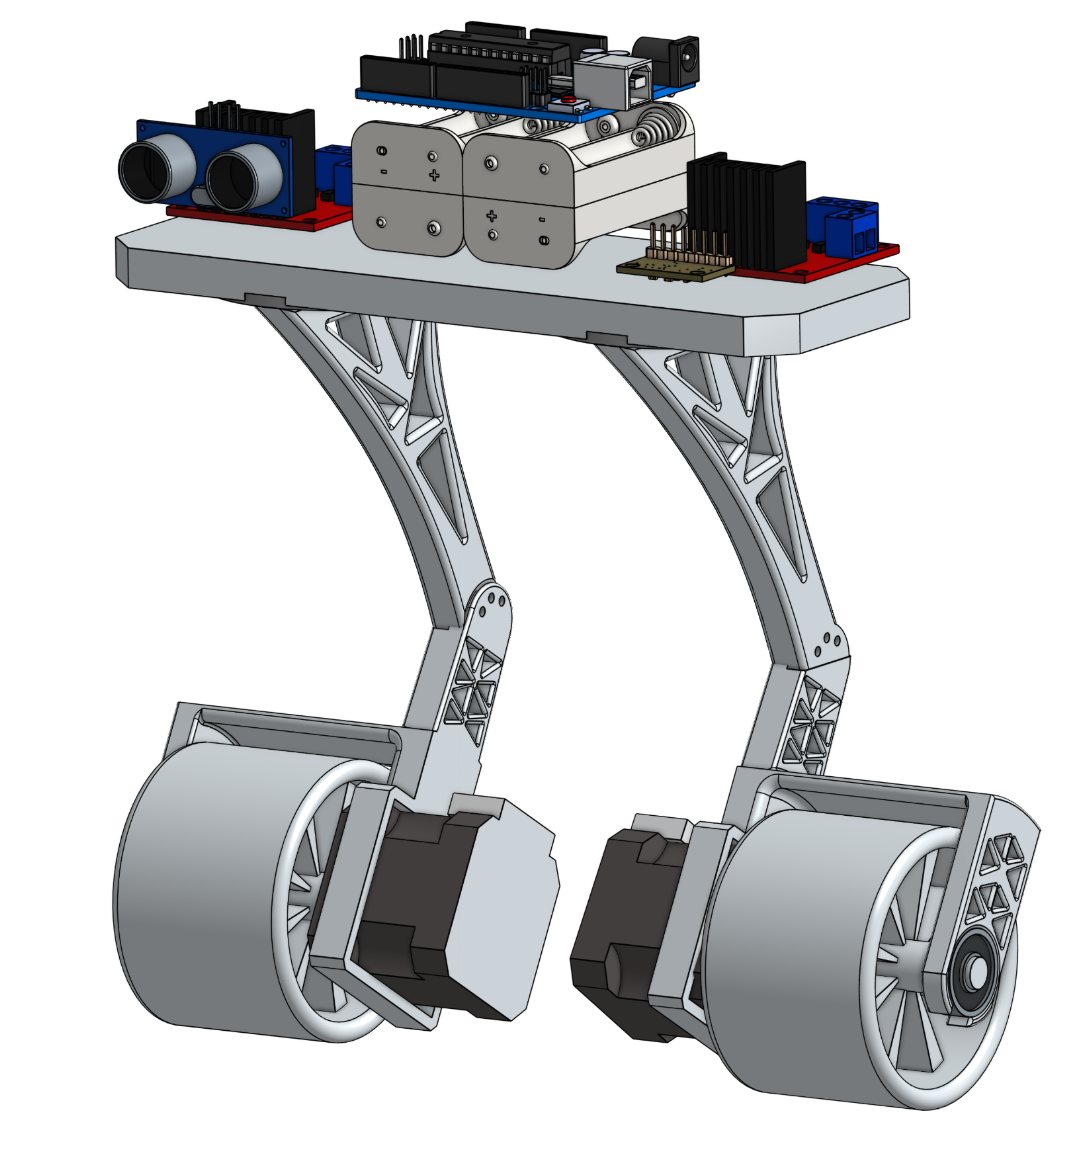
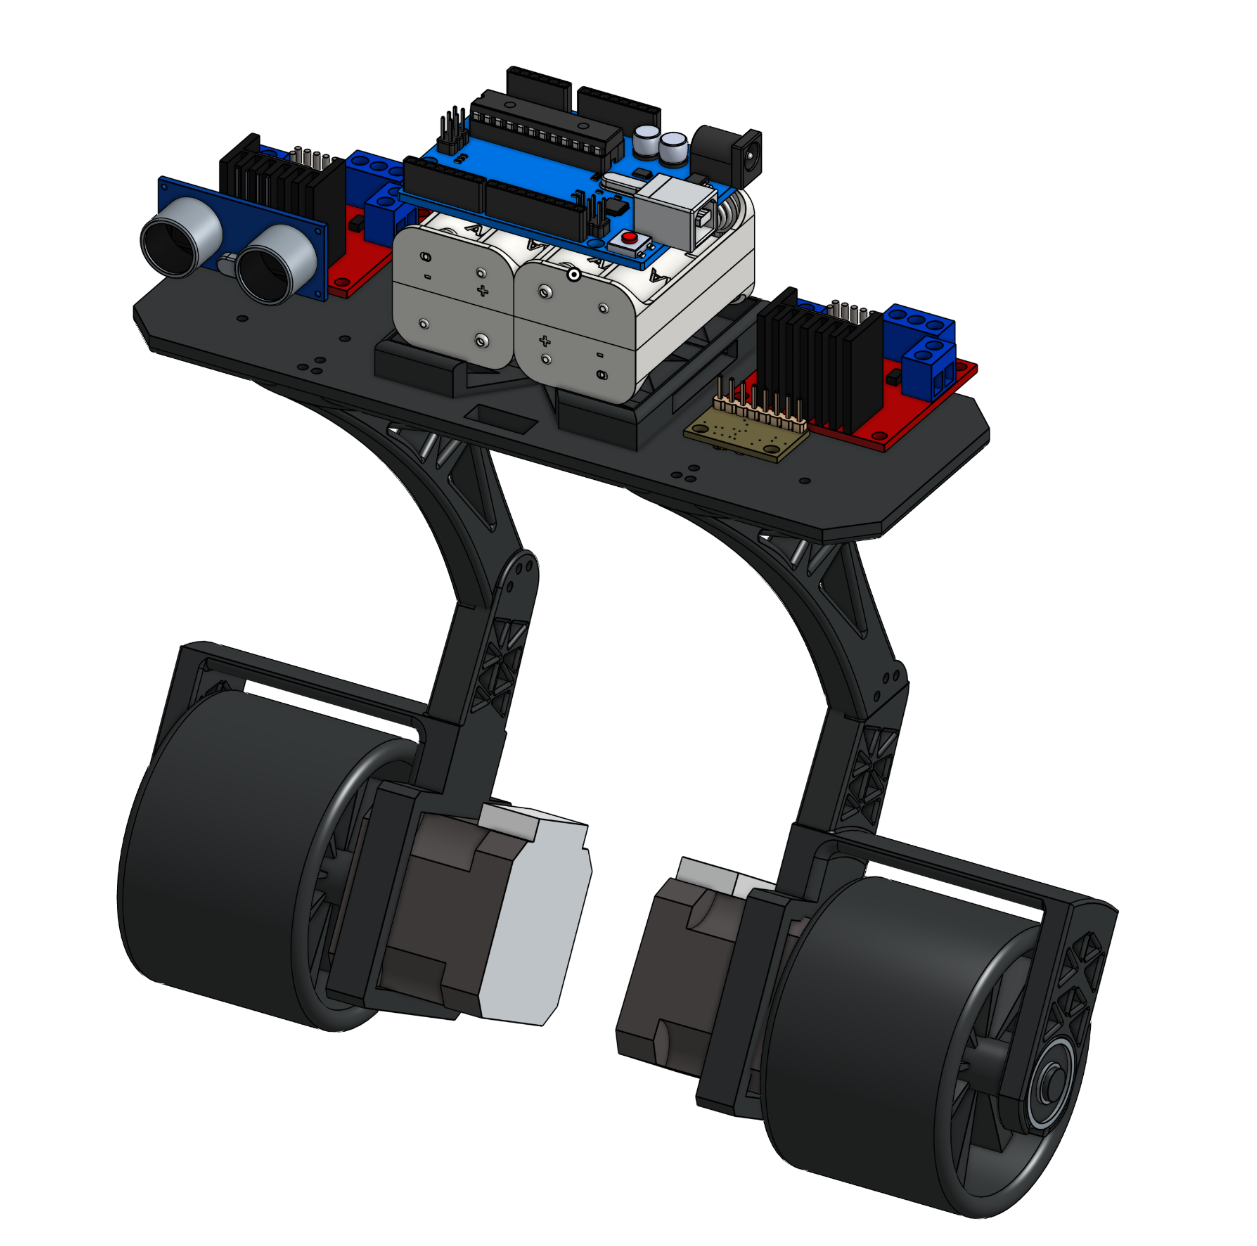
Fix image path and update docs

diff --git a/README.md b/README.md
@@ -2,32 +2,47 @@
 
 A two-wheeled self-balancing robot using stepper motors, an IMU, and a PID control system.
 
-## CAD Design:
-![Final CAD Design:](Self_Balancing_Robot/Images/Assembly.png)
+## CAD Model
+![Final CAD Design:](Images/Assembly.png)
 
-## Final build:
-![Final Build:](Self_Balancing_Robot/Images/FinalBuild.jpeg)
+## Final Build
+![Final Build:](Images/FinalBuild.jpeg)
 
 ## Links
+[Onshape CAD](https://cad.onshape.com/documents/77841446f1b41ab34413a012/w/3976edb733c54040d0cf4a11/e/2c77be59104294cb53648c13?renderMode=0&uiState=69f358ae310ae950be3c7d36)
 
-Onshape CAD: https://cad.onshape.com/documents/77841446f1b41ab34413a012/w/3976edb733c54040d0cf4a11/e/2c77be59104294cb53648c13?renderMode=0&uiState=69f358ae310ae950be3c7d36
+[Google Slides](https://docs.google.com/presentation/d/11a6YWDmIo3_uVGVUQJ4fRdrg8UfdcLoaTxgzl_Zd4M4/edit?usp=sharing)
 
-slides: https://docs.google.com/presentation/d/11a6YWDmIo3_uVGVUQJ4fRdrg8UfdcLoaTxgzl_Zd4M4/edit?usp=sharing
+### All rough workings documented on google slides
 
 ## Overview
-This project investigates real-time control systems by building a Segway-style robot that balances using feedback.
+This project investigates real-time control systems by building a Segway-style robot that balances using a PID feedback loop. The aim of this project was to gain familiarity with PID controllers and the manufacturing processes needed to create a final working device.
 
 ## Key Features
 - PID control
+$$
+u(t) = K_p e(t) + K_i \int e(t)\,dt + K_d \frac{de(t)}{dt}
+$$
 - Complementary filter (IMU fusion)
+$$
+\theta = \alpha \left(\theta + \omega \cdot dt \right) + (1 - \alpha)\,\theta_{\text{acc}}
+$$
 - Stepper motor drive
 - Custom 3D printed chassis
+- Kill switch
 
 ## Repository Structure
-- docs/ → theory + design
-- hardware/ → CAD + electronics
-- software/ → Arduino + PC code
-- experiments/ → tuning + logs
+- docs/ (theory + design)
+- hardware/ (CAD + electronics)
+- software/ (Arduino + PC code)
+- experiments/ (tuning + logs)
 
 ## Status
-Work in progress — There is movement, PID controller needs tuning and motor drivers need replacing
+Work in progress, There is movement, PID controller needs tuning and motor drivers need replacing.
+
+## Current Reflections and Next Steps
+Overall the project has acheived its aims. The design and build processes were very successful due to manufacturing considerations taken in CAD allowing for components to be mounted on easily. Additionally, the programming stage has deppened my understanding of PID controllers which was the main goal.
+
+The project had some challenges which act as a learning opportunity for future robotics projects. namely, the heated inserts were too small so plastic welding was used, low quality motor drivers caused jittering so adopting microstepping to smooth motion, and the power source having a low current limit and causing motors to stall, this was fixed by repurposing an 18V electric strimmer battery, 3D printing a press-fit mount and wiring a fixed resistor to work safely with the BMS (battery management system). With some more fixes to the circuitry the project would be fully complete. Main goals have still been acheived and funding has be redirected to other projects at the moment, planning to revisit this soon.
+
+Future updates will include, ultrasound sensor implemetation for obstacle detection and HC-05 blutooth module transmission between a laptop and the arduino to offload the computing power and allow for more software features.

diff --git a/docs/electronics.md b/docs/electronics.md
@@ -1,11 +1,14 @@
 # Electronics
 
+## Circuit for individual Motor
+![Circuit for individual Motor](../Images/MotorCircuit.png)
+
 ## Components
 - Arduino Uno
 - MPU6050 IMU (6 DOF)
-- NEMA 17 motors
-- Motor drivers
-- Battery pack
+- NEMA 17 stepper motors
+- DRV8825 motor drivers
+- NMGT18-Li_48 2.0Ah 18V rechargable battery pack
 
 ## Problems
 - Insufficient current supply

diff --git a/docs/control-system.md b/docs/control-system.md
@@ -1,9 +1,10 @@
 # Control System
 
 The robot uses a PID controller:
-
-u(t) = Kp*e(t) + Ki∫e(t)dt + Kd*de/dt
-
+$$
+u(t) = K_p e(t) + K_i \int e(t)\,dt + K_d \frac{de(t)}{dt}
+$$
+The core idea is that the proportional term grows with error (adjusting motors toward desired point), The integral term grows with accumulated error (adjusting motors such that error is not large for a long time), and the derivative term changes with the rate of error (making sure the motor doesnt overshoot)
 ## Strategy
 1. Balance loop (angle → motor speed)
 2. Velocity compensation (reduces drift)